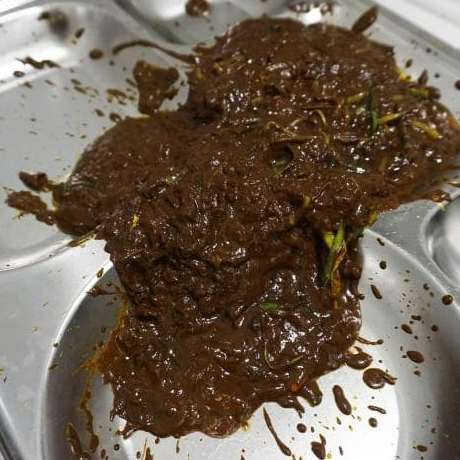
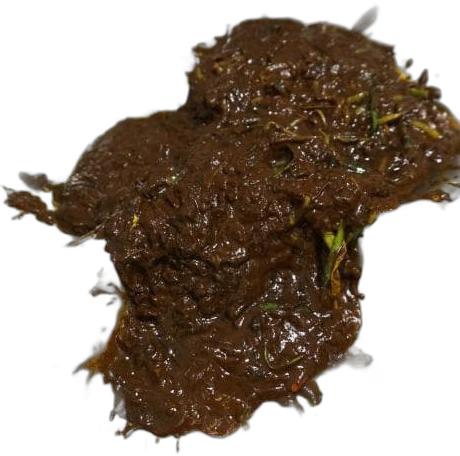
해병만두

diff --git a/script.js b/script.js
@@ -13,12 +13,12 @@ const INGREDIENTS = [
   {name:"대파",     icon:"🌿", good:true},
   {name:"고추장",   icon:"🟥", good:false},
   {name:"마요네즈", icon:"🥫", good:false},
-  {name:"해병짜장", img:"haebyeong-jajang.png", marine:true},
+  {name:"해병짜장", img:"haebyeong-jajang.png", marine:true, plain:true},
   {name:"해병 전우애", icon:"🫂", marine:true},
-  {name:"한재민 해병님", img:"chef.png", marine:true},
+  {name:"한재민 해병님", img:"chef-icon.png", marine:true, plain:true},
   {name:"해병 핫도그", img:"haebyeong-hotdog.png", marine:true, plain:true},
-  {name:"해병 수육", img:"haebyeong-suyuk.png", marine:true},
-  {name:"해병 햄버거", img:"haebyeong-burger.png", marine:true},
+  {name:"해병 수육", img:"haebyeong-suyuk.png", marine:true, plain:true},
+  {name:"해병 햄버거", img:"haebyeong-burger.png", marine:true, plain:true},
   {name:"해병 통조림", img:"haebyeong-can.png", marine:true, plain:true}
 ];
 const MARINE_TOTAL = INGREDIENTS.filter(i => i.marine).length;
@@ -147,7 +147,7 @@ const FIRE = {
 function eatHTML(cook){
   return `<div class="eat" id="eat"><img src="chef.png" alt="시식하는 해병 주방장"><svg viewBox="0 0 400 260" aria-hidden="true"><ellipse cx="200" cy="215" rx="150" ry="30" fill="#fff" stroke="#3b2418" stroke-width="5"/><ellipse cx="200" cy="212" rx="115" ry="20" fill="#e6edf8"/><g class="bite"><g transform="translate(80 98) scale(.6)">${dumpling(cook)}</g></g></svg></div>`;
 }
-function movie(title, html, hint){ $("mTitle").textContent = title; $("mstage").innerHTML = html; $("mHint").textContent = hint; }
+function movie(title, html, hint){ $("mCry").textContent = ""; $("mTitle").textContent = title; $("mstage").innerHTML = html; $("mHint").textContent = hint; }
 async function startWrap(){
   const N = 6; let n = 0;
   phase("wrapping"); movie("만두 빚기!", wrapSVG(), `만두피를 콕콕 눌러서 빚어라! (0/${N})`);
@@ -172,7 +172,8 @@ async function startFire(cook){
   await wait(1000); $("mHint").textContent = "냠냠…";
   await wait(2100); $("eat").classList.add(win ? "happy" : "cough");
   $("mHint").textContent = win ? "따흐흑...따흐흐흑 ㅠㅠ" : "새애끼...기열!";
-  await wait(1400); judge(cook);
+  if(win) $("mCry").textContent = "그때 황근출 해병님이 3살짜리 아쎄이 처럼 울기 시작했다!";
+  await wait(win ? 3200 : 1400); judge(cook);
 }
 $("start").addEventListener("click", () => $("game").classList.remove("intro"));
 $("go").addEventListener("click", () => phase("soaking"));

diff --git a/style.css b/style.css
@@ -91,3 +91,5 @@ body:has(#game.intro){background:#f6f1e7}
 @keyframes hop{50%{transform:translateY(-16px)}}
 .eat.cough img{animation:cough .25s linear 6}
 .cookbtn span svg{display:block;width:92px;height:auto;margin:0 auto 6px}
+
+.cry{margin:0;min-height:1.5em;max-width:min(520px,88vw);word-break:keep-all;font-family:"Black Han Sans","Jua",sans-serif;font-size:clamp(1.3rem,5vw,1.8rem);line-height:1.35;color:#fff;text-shadow:2px 2px 0 #5b2a86}

diff --git a/index.html b/index.html
@@ -60,6 +60,7 @@
     <h2 id="mTitle"></h2>
     <div class="mstage" id="mstage"></div>
     <p class="hint" id="mHint"></p>
+    <p class="cry" id="mCry" aria-live="polite"></p>
   </section>
   <section class="result" id="result">
     <h2 id="rTitle"></h2>
